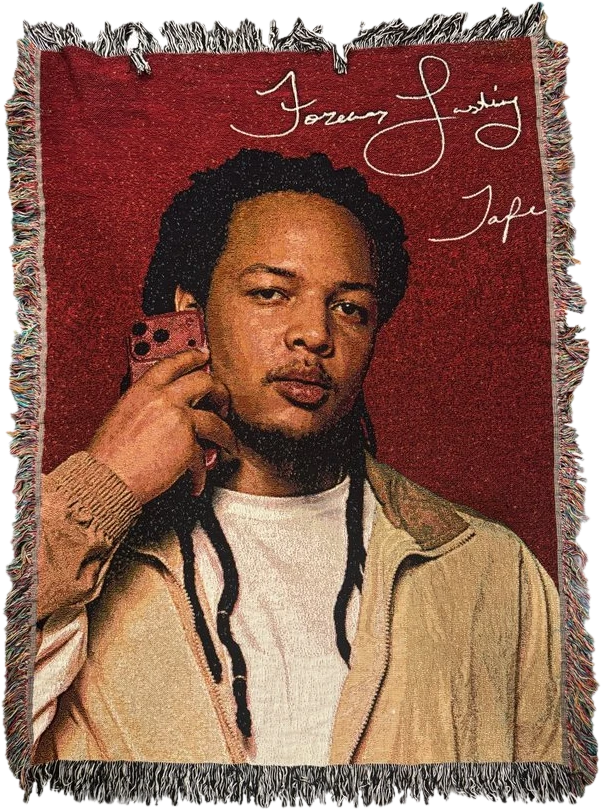
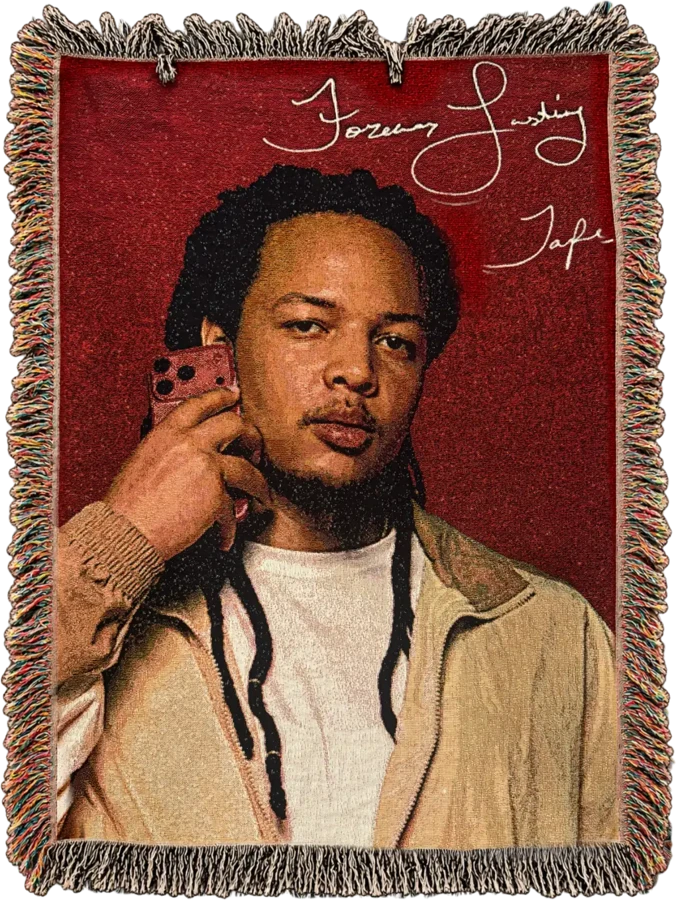
Product page cleanup: full images, mobile layout; new blanket image

diff --git a/nhie/v3.js b/nhie/v3.js
@@ -157,7 +157,7 @@
     const first = p.variants.find(v => v.available) || p.variants[0];
     const vw = VIEWS[h], back = !!vw, sl = SLEEVE[h]; vc = sl ? vc : null;
     return `<article class="pc ${back ? 'has-b' : ''} ${vc ? 'vinyl' : ''}" style="animation-delay:${n * 60}ms;${vc ? '--vc:' + vc : ''}" data-h="${h}">
-      <a class="im" href="#/products/${h}" aria-label="${p.title}">${vc ? (h === 'time-will-tell-vinyls' ? '<i class="disc d2"></i>' : '') + '<i class="disc"></i>' : ''}<div class="flip">${sl ? `<img class="f sleeve" src="${sl}" alt="${p.title}" loading="lazy">` : `<img class="f" src="${FULL[h] ? `img/shop2/${h}-cut.webp?v=1` : `img/shop2/${h}-${vw ? vw[0] : 1}.webp`}" alt="${p.title}" loading="lazy">`}${back ? `<img class="b" src="img/shop2/${h}-${vw[1]}.webp" alt="" loading="lazy">` : ''}</div>${back ? '<span class="tag">Back</span>' : ''}</a>
+      <a class="im" href="#/products/${h}" aria-label="${p.title}">${vc ? (h === 'time-will-tell-vinyls' ? '<i class="disc d2"></i>' : '') + '<i class="disc"></i>' : ''}<div class="flip">${sl ? `<img class="f sleeve" src="${sl}" alt="${p.title}" loading="lazy">` : `<img class="f" src="${FULL[h] ? `img/shop2/${h}-cut.webp?v=2` : `img/shop2/${h}-${vw ? vw[0] : 1}.webp`}" alt="${p.title}" loading="lazy">`}${back ? `<img class="b" src="img/shop2/${h}-${vw[1]}.webp" alt="" loading="lazy">` : ''}</div>${back ? '<span class="tag">Back</span>' : ''}</a>
       <h3><a href="#/products/${h}">${p.title}</a></h3><div class="pr">${money(first.price)}</div>
       <div class="sz">${single ? '' : p.variants.map(v => `<button data-v="${v.id}" ${v.available ? '' : 'disabled'} class="${v === first ? 'on' : ''}">${short(v.title)}</button>`).join('')}</div>
       <button class="add2" data-add="${first.id}" ${first.available ? '' : 'disabled'}>Add to bag</button></article>`;
@@ -198,9 +198,11 @@
   const pdp = document.createElement('section'); pdp.id = 'pdp'; pdp.setAttribute('aria-label', 'Product'); document.body.appendChild(pdp);
   async function openProduct(h) {
     const P = await STORE.ready; await galReady; const p = P[h]; if (!p) return closeProduct();
-    const al = ALBUM_OF[h], A = ALBUMS[al], sl = SLEEVE[h], vc = sl && VC[h];
+    const al = ALBUM_OF[h], A = ALBUMS[al], sl = h === 'time-will-tell-vinyls' ? null : SLEEVE[h], vc = sl && VC[h];
     if (A) mood(al);
     let imgs = sl ? [sl] : (GAL[h] || [p.featured_image]).slice();
+    if (FULL[h]) imgs = [`img/shop2/${h}-cut.webp?v=2`];
+    if (h === 'time-will-tell-vinyls') imgs = ['img/shop2/time-will-tell-vinyls-1.webp']; // the real red + black pressing
     if (VIEWS[h]) { const f = `-${VIEWS[h][0]}.webp`; imgs.sort((x, y) => y.endsWith(f) - x.endsWith(f)); }
     const single = p.variants.length === 1 && p.variants[0].title === 'Default Title';
     let pick = p.variants.find(v => v.available) || p.variants[0], qty = 1;

diff --git a/nhie/v3.css b/nhie/v3.css
@@ -1153,3 +1153,30 @@ body.menu-open #nav{z-index:70}
 .shopf{white-space:normal;line-height:2.2}.shopf button,.shopf a{white-space:nowrap}
 @media (max-width:700px){.shopf{max-width:300px;margin-left:auto!important;margin-right:auto!important}}
 .shopf{flex-wrap:wrap!important;justify-content:center;row-gap:2px}
+
+/* product page: never wider than the screen, whole product always visible */
+.pdp-g{grid-template-columns:minmax(0,1.15fr) minmax(0,1fr)}
+.pdp-g>*{min-width:0}
+.stage-main img{width:auto;height:auto;max-width:86%;max-height:86%}
+.pdp-i h1{overflow-wrap:break-word}
+@media (max-width:820px){
+  .pdp-g{grid-template-columns:minmax(0,1fr);gap:22px}
+  .pdp-w{padding:78px 18px 120px}
+  .stage-main{aspect-ratio:auto;height:min(78vw,420px)}
+  .stage-main img{max-width:84%;max-height:100%}
+  .pdp-i h1{font-size:clamp(30px,8.4vw,44px);line-height:1.05;margin:.2em 0 .3em}
+  .pdp-i .eyebrow{margin-bottom:6px}
+  .pdp-buy{display:flex;gap:10px;align-items:stretch}
+  .pdp-buy .add2{flex:1;min-width:0;width:auto}
+  .perks{padding-left:0}
+}
+#pdp .stage{width:auto!important;aspect-ratio:auto!important;background:none!important;border-radius:0!important;overflow:visible!important;-webkit-mask:none!important;mask:none!important;box-shadow:none!important}
+#pdp .stage::before,#pdp .stage::after{content:none!important}
+#pdp .stage-main img{max-height:min(70vh,640px)}
+@media (max-width:820px){#pdp .stage-main{height:auto;padding:6px 0}#pdp .stage-main img{max-height:min(92vw,440px);max-width:92%}}
+@media (min-width:821px){
+  #pdp .stage{top:100px}
+  #pdp .stage-main{aspect-ratio:auto;height:calc(100vh - 230px);min-height:380px;max-height:680px}
+  #pdp .stage-main img{max-height:100%;max-width:92%}
+}
+@media (max-width:820px){#pdp .stage-main.vinyl{height:min(84vw,420px)}#pdp .stage-main.vinyl img{max-width:66%;max-height:100%;margin-right:22%}#pdp .stage-main.vinyl .disc{width:60%;right:6%}}

diff --git a/nhie/index.html b/nhie/index.html
@@ -10,7 +10,7 @@
 <link rel="preconnect" href="https://fonts.googleapis.com">
 <link href="https://fonts.googleapis.com/css2?family=Cormorant+Garamond:ital,wght@0,500;0,600;1,500&family=Inter:wght@400;500;600;700&family=Mrs+Saint+Delafield&family=Oswald:wght@500;700&display=swap" rel="stylesheet">
 <link rel="stylesheet" href="store.css?v=2">
-<link rel="stylesheet" href="v3.css?v=135">
+<link rel="stylesheet" href="v3.css?v=140">
 <script>try{if(localStorage.getItem("domani-entered"))document.documentElement.classList.add("entered");if(localStorage.getItem("domani-joined"))document.documentElement.classList.add("joined")}catch(e){}</script>
 </head>
 <body class="locked">
@@ -197,7 +197,7 @@
 <script src="https://cdnjs.cloudflare.com/ajax/libs/gsap/3.12.5/ScrollTrigger.min.js"></script>
 <script src="https://cdn.jsdelivr.net/npm/lenis@1.1.13/dist/lenis.min.js"></script>
 <script src="store.js?v=4"></script>
-<script src="v3.js?v=57"></script>
+<script src="v3.js?v=60"></script>
 <script src="motion.js?v=6"></script>
 <script>
 (() => {
